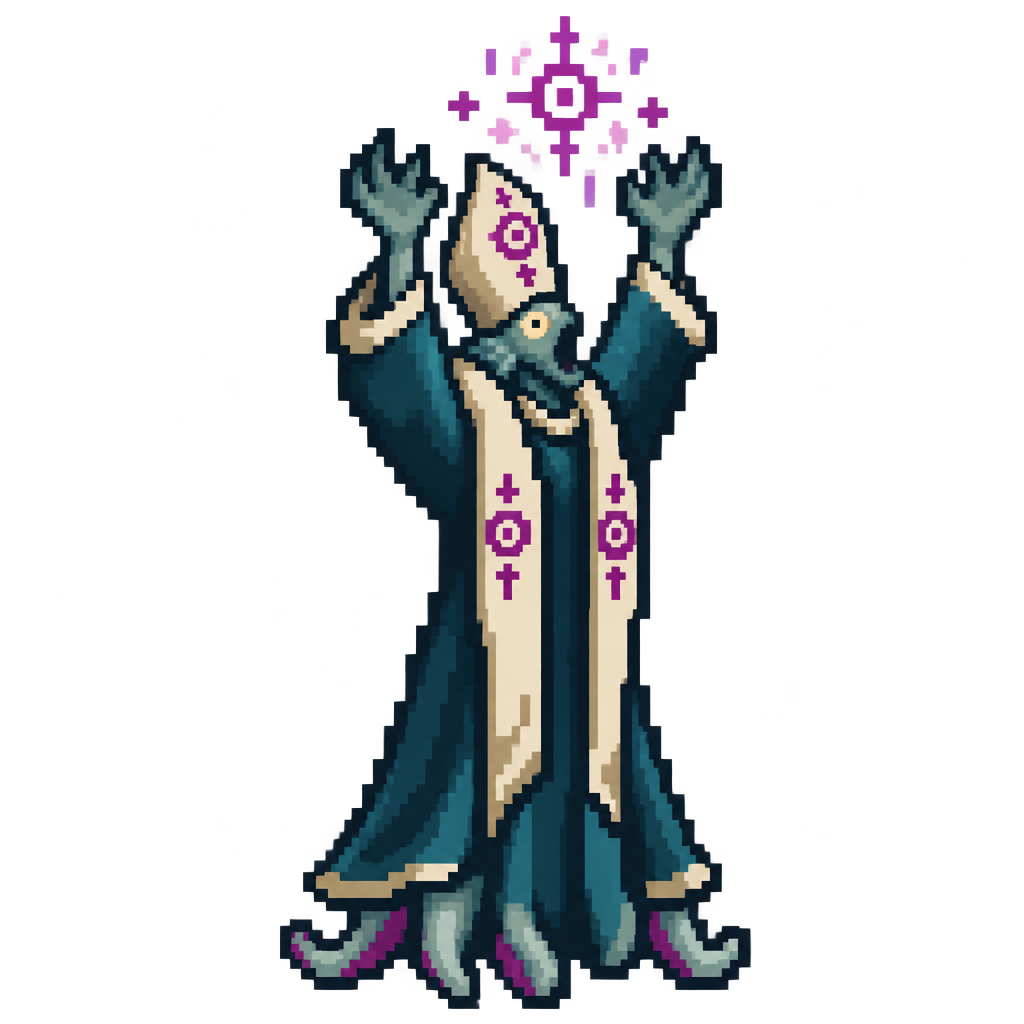
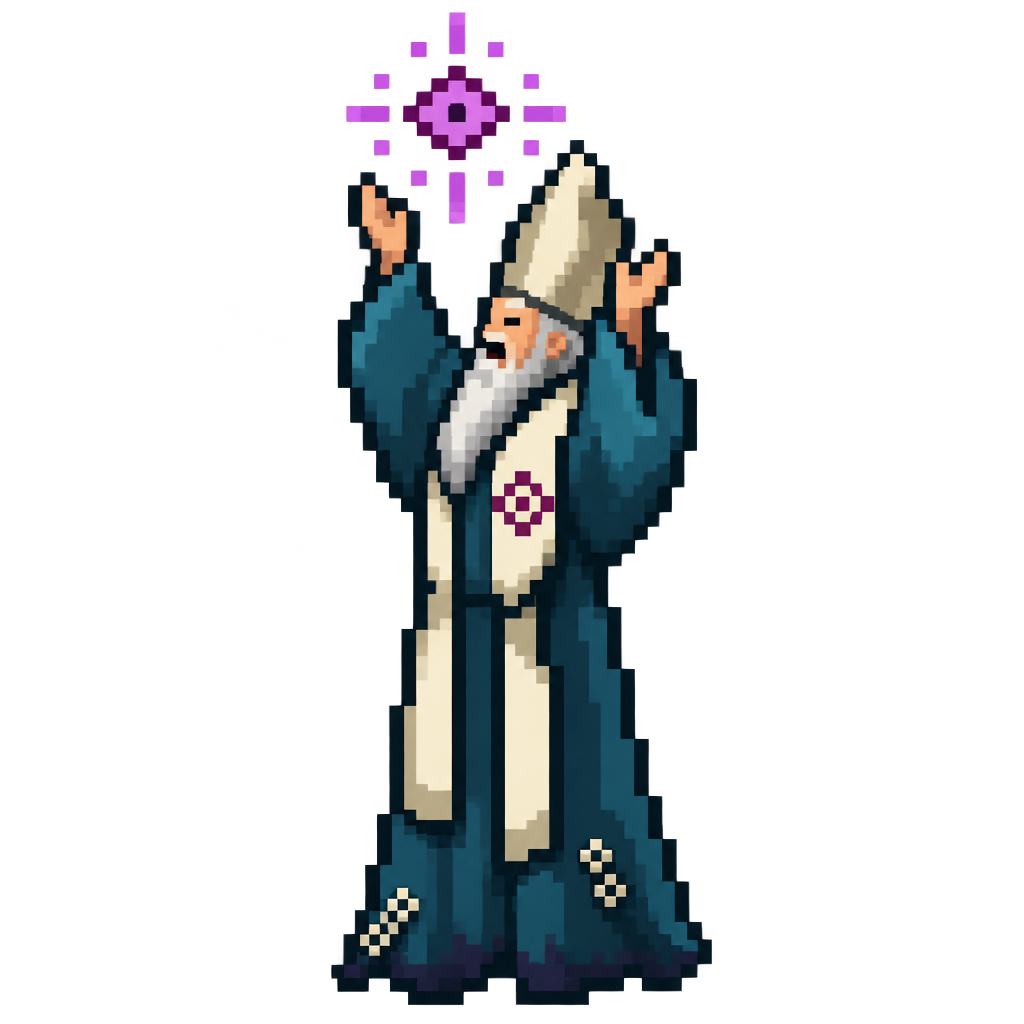
Act II art review: redo the 14 images the owner flagged
The owner reviewed all 207 new Act II and volley images (190 OK, 13 Redo, one note):
- Abbot Merrow (still and sermon pose) is an ordinary elderly human priest before The Change.
- Herald of the Deep: same design, fewer and bigger details.
- Harbourmaster: Deep Kin fish face, everything else kept.
- Bell buoy: the bell hangs free in an open frame.
- Chapel floor: hardwood planks instead of flagstones (new wood source, plank courses).
- Lobster pots and net piles: drawn pixel by pixel by the new tools/mesh_props.py.
- Siren of the Eye and Gilded Tide Widow: the bust bounce moved from the waist to the chest
  (Siren rig box raised; SKIN_FIX for the Hyper skin).
Visual only. GDD 15.0 row "Act II art review", ART_BIBLE rows, README and CLAUDE.md updated.

Claude-Session: https://claude.ai/code/session_01FLPv2RqRe5qVsRWxUhur7z

Changed region(s): [[0.25, 0.0, 0.75, 1.0]]

diff --git a/tools/mesh_props.py b/tools/mesh_props.py
@@ -1,0 +1,195 @@
+#!/usr/bin/env python3
+"""mesh_props.py: draws Gullhaven's see-through harbour props straight onto the art grid.
+
+Why (owner's art review, Oct 2026): the lobster pots and net piles are 20-29 art px tall, so an
+AI source's rope mesh (holes a few source px wide) averages into speckle when it is reduced to the
+grid, and the props read as "a pile of chests" / "a pile of sand". A cage or a net only reads when
+every rope line and every hole is a whole art pixel, so these four sprites are drawn here, pixel by
+pixel, from palette colours (tools/palette.json), at the same sizes as before (width = footprint
++ 2, HarbourStage obstacle radii 12 / 15 and 14 / 18).
+
+Usage (from the repo root):
+    python3 tools/mesh_props.py            # writes the four sprites below
+    python3 tools/mesh_props.py --out DIR  # writes them to DIR instead (review)
+
+Outputs: assets/sprites/obstacles/lobster_pots_s.png, lobster_pots_l.png, net_pile_s.png,
+net_pile_l.png. Drawing is deterministic (no randomness), so a rerun reproduces the files.
+"""
+import argparse
+import json
+import math
+from pathlib import Path
+
+from PIL import Image
+
+# Repository root (this file lives in tools/).
+ROOT = Path(__file__).resolve().parent.parent
+# Where the sprites are written by default.
+OUT_DIR = ROOT / "assets" / "sprites" / "obstacles"
+
+# Palette colours used, by palette.json name (the only colours these sprites may hold).
+COLOR_NAMES = ["ink_warm", "brown", "brown_light", "bone_shade", "bone_mid", "bone",
+               "drowned_dark", "drowned", "drowned_light"]
+
+# Sprite key -> (width, height) in art px, the sizes of the sprites they replace.
+SIZES = {
+    "lobster_pots_s": (26, 20),
+    "lobster_pots_l": (32, 25),
+    "net_pile_s": (30, 23),
+    "net_pile_l": (38, 29),
+}
+
+# Lobster pot: spacing of the rope mesh lines (art px; 3 = 2 px holes between 1 px ropes).
+POT_MESH = 3
+# Lobster pot: every this-many mesh columns is a wooden hoop instead of rope.
+POT_HOOP_EVERY = 2
+# Lobster pot: height of the flat wooden base board (art px).
+POT_BASE = 2
+# Net pile: spacing of the diamond mesh diagonals (art px; 6 = 5 px diamond holes, the smallest
+# that still reads as a net, not a dither, at 23-29 px; 4 and 5 were tried in review).
+NET_MESH = 6
+# Net pile: number of folds (darker bands) across the heap.
+NET_FOLDS = 2
+# Net pile: cork float diameter (art px).
+CORK = 3
+
+
+def palette() -> dict:
+    """Name -> (r, g, b, 255) for COLOR_NAMES, read from tools/palette.json."""
+    data = json.loads((ROOT / "tools" / "palette.json").read_text())
+    hexes = {c["name"]: c["hex"] for c in data["colors"]}
+    return {n: tuple(int(hexes[n][i:i + 2], 16) for i in (1, 3, 5)) + (255,) for n in COLOR_NAMES}
+
+
+def outline(img: Image.Image, ink: tuple) -> None:
+    """Paints every transparent pixel that touches an opaque one (4-neighbour) with `ink`."""
+    w, h = img.size
+    px = img.load()
+    edge = []
+    for y in range(h):
+        for x in range(w):
+            if px[x, y][3]:
+                continue
+            for dx, dy in ((1, 0), (-1, 0), (0, 1), (0, -1)):
+                nx, ny = x + dx, y + dy
+                if 0 <= nx < w and 0 <= ny < h and px[nx, ny][3] and px[nx, ny] != ink:
+                    edge.append((x, y))
+                    break
+    for x, y in edge:
+        px[x, y] = ink
+
+
+def draw_pot(img: Image.Image, x0: int, y0: int, w: int, h: int, pal: dict) -> None:
+    """One lobster trap (a loaf-shaped cage on a base board) with its box at (x0, y0), w x h px
+    INSIDE the outline: dark see-through inside, a rope grid, every other column a wooden hoop,
+    lit from the top-left (lit ropes bone, shaded ropes bone_shade)."""
+    px = img.load()
+    body = h - POT_BASE  # Rows of the cage above the base board.
+    r = max(2, body // 2)  # Corner radius of the loaf's rounded top (art px).
+    for yy in range(h):
+        for xx in range(w):
+            if yy < body:
+                # Rounded top corners: outside the corner circles is empty.
+                cx = r if xx < r else (w - 1 - r if xx > w - 1 - r else xx)
+                if yy < r and math.hypot(xx - cx, yy - r) > r + 0.25:
+                    continue
+                lit = xx + yy < (w + body) * 0.45  # Top-left half of the cage catches the light.
+                col_line = (xx % POT_MESH) == 1  # A vertical rope / hoop column.
+                row_line = (yy % POT_MESH) == 1 or yy == 0  # A horizontal rope row (top rope included).
+                hoop = col_line and (xx // POT_MESH) % POT_HOOP_EVERY == 0
+                if hoop:
+                    c = pal["brown_light"] if lit else pal["brown"]
+                elif col_line or row_line:
+                    c = pal["bone"] if lit else pal["bone_shade"]
+                else:
+                    c = pal["ink_warm"] if yy > 1 else pal["brown"]  # The dark inside, seen through the holes.
+                if xx in (0, w - 1) and not row_line:
+                    c = pal["brown"]  # The end hoops frame the cage.
+            else:
+                c = pal["brown_light"] if yy == body else pal["brown"]  # Base board, lit top edge.
+            px[x0 + xx, y0 + yy] = c
+
+
+def lobster_pots(size: tuple, pal: dict) -> Image.Image:
+    """A stack of three traps: two side by side on the ground, one on top, centred."""
+    w, h = size
+    img = Image.new("RGBA", size, (0, 0, 0, 0))
+    pw = (w - 3) // 2  # Width of a bottom trap inside its outline (1 px outline each side, 1 px shared gap).
+    ph = (h - 3) // 2 + 1  # Height of a trap inside its outline.
+    top_w = pw - 2  # The top trap is a little smaller (further away, sits in the groove).
+    yb = h - 1 - ph  # Top row of the bottom traps.
+    draw_pot(img, 1, yb, pw, ph, pal)
+    draw_pot(img, w - 1 - pw, yb, pw, ph, pal)
+    draw_pot(img, (w - top_w) // 2, max(1, yb - ph + 2), top_w, ph - 1, pal)
+    # A pale rope coil on the top trap's roof (2 px, lit).
+    cx = w // 2
+    img.load()[cx - 1, max(0, yb - ph + 2)] = pal["bone"]
+    img.load()[cx, max(0, yb - ph + 2)] = pal["bone_mid"]
+    outline(img, pal["ink_warm"])
+    return img
+
+
+def net_pile(size: tuple, pal: dict) -> Image.Image:
+    """A heap of fishing net: a mound filled with a diamond rope mesh (dark holes), scalloped
+    hanging loops along its foot, darker fold bands, a string of cork floats and one glass float."""
+    w, h = size
+    img = Image.new("RGBA", size, (0, 0, 0, 0))
+    px = img.load()
+    cx = (w - 1) / 2.0  # Mound centre column.
+    rx, ry = (w - 2) / 2.0, h - 2.5  # Mound half-width and height (inside the outline).
+    base = h - 2  # Bottom row of the mound.
+    for y in range(1, h - 1):
+        for x in range(1, w - 1):
+            dx = (x - cx) / rx
+            dy = (base - y) / ry
+            if dx * dx + dy * dy > 1.0:
+                continue
+            # Scalloped foot: the hanging loops leave a notch every NET_MESH columns.
+            if y == base and x % NET_MESH == 0:
+                continue
+            on_line = (x + y) % NET_MESH == 0 or (x - y) % NET_MESH == 0  # A rope of the diamond mesh.
+            lit = (x - cx) + (base - y) * 0.6 < rx * 0.35 and y < base - ry * 0.25  # Top-left of the heap.
+            # Fold bands: darker ropes along a few arcs across the heap.
+            fold = any(abs((y - base + ry * (k + 1) / (NET_FOLDS + 1)) + 0.12 * (x - cx) * (1 if k % 2 else -1)) < 0.8
+                       for k in range(NET_FOLDS))
+            if on_line:
+                c = pal["bone_shade"] if fold else (pal["bone"] if lit else pal["bone_mid"])
+            else:
+                # The lower folds seen through the holes: lit on the heap's top-left, dark elsewhere.
+                c = pal["brown"] if (lit and not fold) else pal["ink_warm"]
+            px[x, y] = c
+    # Cork floats strung along one rope across the heap (brown_light with a brown shade).
+    for i in range(3):
+        fx = int(cx - rx * 0.55 + i * rx * 0.45)
+        fy = int(base - ry * (0.55 - 0.12 * i))
+        for yy in range(CORK):
+            for xx in range(CORK):
+                if 0 <= fx + xx < w and 0 <= fy + yy < h and px[fx + xx, fy + yy][3]:
+                    px[fx + xx, fy + yy] = pal["brown_light"] if xx + yy < CORK else pal["brown"]
+    # One glass float, drowned teal with a lit glint, low on the right.
+    gx, gy = int(cx + rx * 0.45), int(base - ry * 0.35)
+    for yy in range(CORK + 1):
+        for xx in range(CORK + 1):
+            if (xx, yy) in ((0, 0), (CORK, 0), (0, CORK), (CORK, CORK)):
+                continue
+            if 0 <= gx + xx < w and 0 <= gy + yy < h and px[gx + xx, gy + yy][3]:
+                px[gx + xx, gy + yy] = pal["drowned"] if xx + yy > 1 else pal["drowned_light"]
+    outline(img, pal["ink_warm"])
+    return img
+
+
+def main() -> None:
+    ap = argparse.ArgumentParser(description=__doc__, formatter_class=argparse.RawDescriptionHelpFormatter)
+    ap.add_argument("--out", default="", help="output folder (default assets/sprites/obstacles)")
+    args = ap.parse_args()
+    out = Path(args.out) if args.out else OUT_DIR
+    out.mkdir(parents=True, exist_ok=True)
+    pal = palette()
+    for key, size in SIZES.items():
+        img = lobster_pots(size, pal) if key.startswith("lobster") else net_pile(size, pal)
+        img.save(out / (key + ".png"), optimize=True)
+        print(f"obstacles/{key}: {size[0]}x{size[1]} -> {out / (key + '.png')}")
+
+
+if __name__ == "__main__":
+    main()

diff --git a/tools/make_tile.py b/tools/make_tile.py
@@ -278,10 +278,17 @@ RECIPES = {
         "cell_shift": True, "cell_l": 0.012, "bevel": 0.01,
     },
     "harbour_chapel": {
-        "source": "sanctum_sanctuary.png", "method": "layout",  # Slimed flagstones of the chapel square.
-        "layout": {"type": "grid", "step": 32, "joint": 1, "stagger": 16},
-        "regions": {"stone": ["floor_slate", "floor_moss"], "joint": ["ink_green"]},
-        "cell_shift": True, "cell_l": 0.01, "bevel": 0.008,
+        # The village chapel's old hardwood floor (owner's art review: "a village chapel would have a
+        # hardwood floor"; it replaced slimed flagstones): long, narrow 8 px planks in staggered
+        # courses over a wood-grain source (16 px courses read as bricks), warmer than the
+        # Archive's dark 16 px boards.
+        "source": "harbour_chapel_wood.png", "method": "layout",
+        "layout": {"type": "courses", "rows": [8] * 16, "joint": 1,
+                   "slabs": [[80, 48], [128], [56, 72], [96, 32], [128], [48, 80], [72, 56], [128],
+                             [40, 88], [104, 24], [64, 64], [128], [88, 40], [32, 96], [128], [112, 16]],
+                   "offsets": [0, 52, 20, 84, 36, 8, 100, 68, 44, 12, 76, 28, 116, 60, 92, 4]},
+        "regions": {"stone": ["floor_dirt", "floor_ochre"], "joint": ["ink_warm"]},
+        "cell_shift": True, "cell_l": 0.012, "bevel": 0.006,
     },
     "harbour_seawall": {
         "source": "sanctum_courtyard.png", "method": "layout",  # The promenade's long dressed paving stones.

diff --git a/tools/walk_cycle.py b/tools/walk_cycle.py
@@ -199,7 +199,7 @@ RIGS = {
     # --- Act II: Ul-Thalos ---
     # The Siren floats (a kelp hem, robe); the Tide Widow's gown is a robe with her staff rigid;
     # the Spawns crawl (their tentacle skirts sway like a hem).
-    "eye/eye_siren": dict(mode="robe", hip=32, rigid=[], sway=2, dip=1, bust=(17, 27, 17, 25, 2)),
+    "eye/eye_siren": dict(mode="robe", hip=32, rigid=[], sway=2, dip=1, bust=(23, 32, 11, 19, 2)),  # Bust box raised after the owner's art review (was rows 17-25, too low).
     "eye/eye_hierophant": dict(mode="robe", hip=46, rigid=[(26, 38, 0, None)], sway=2, dip=1),
     "eye/eye_spawn": dict(mode="robe", hip=50, rigid=[], sway=2, dip=1),
     "eye/eye_waking_horror": dict(mode="legs", hip=52, back=(0, 33), front=(33, 62), rigid=[], spread=2, lift=2, dip=1),
@@ -232,7 +232,11 @@ SKINS = {
     "player/tide_widow_hyper": "player/tide_widow",  # --- Act II: Ul-Thalos ---
 }
 # Per-skin field overrides of the derived rig (same keys as RIGS), set after review.
-SKIN_FIX = {}
+SKIN_FIX = {
+    # The Hyper gown's crown adds 2 rows on top but her bust sits no lower than the base
+    # Tide Widow's, so the derived box (rows 20-28) landed on the waist (owner's art review).
+    "player/tide_widow_hyper": {"bust": (19, 30, 17, 25, 2)},
+}
 
 
 def load(key: str) -> np.ndarray:

diff --git a/docs/art/ART_BIBLE.md b/docs/art/ART_BIBLE.md
@@ -1226,22 +1226,22 @@ kept outside the repository; the sources are in `art_source/`.
 | `eye/deep_kin.png` (+ `_walk`) | Deep Kin: a hunched, scaled fisherman halfway into the sea, a spiny fin ridge, one magenta eye, ragged oilskin trousers | 56 | walk rig: legs, the long arms rigid |
 | `eye/tide_caller.png` (+ `_walk`, `_idle`) | Tide Caller: a fishwife priestess in the figure-redesign style (fitted drowned-teal oilskin gown, kelp shawl, bone cowl), a conch-topped staff | 54 | `pixelate_source.py` then `--ink-l 0.15 --no-cleanup`; glide strip and idle breathing with a 2 px bust bounce |
 | `eye/netcaster.png` (+ `_walk`) | Netcaster: a hooded net-mender, a weighted net over one arm, a gaff hook | 50 | walk rig: legs, the gaff rigid |
-| `eye/deep_herald.png` | Herald of the Deep (the Harbour's Reckoning kind): coral-horned, barnacle-plated sea horror | 64 | still only |
-| `eye/harbourmaster.png` | the Harbourmaster miniboss: a hulking Deep Kin in a peaked cap and torn oilskin, a giant anchor on a chain | 124 | still only (136 wide) |
-| `bosses/merrow.png` | Abbot Silas Merrow, robed: drowned-teal cassock, bone stole with the Eye, tall mitre, tentacles under the hem | 130 | |
-| `bosses/merrow_sermon.png` | pose 1: preaching, both arms raised, the Eye sigil above | 150 | `BossPoseData` |
+| `eye/deep_herald.png` | Herald of the Deep (the Harbour's Reckoning kind): coral-horned, shell-plated sea horror, redrawn after the owner's review with fewer, bigger details (three horns, three eyes, three shell plates, broad kelp strips) | 64 | still only (54 wide) |
+| `eye/harbourmaster.png` | the Harbourmaster miniboss: a hulking Deep Kin in a peaked cap and torn oilskin, a giant anchor on a chain; after the owner's review a Deep Kin fish head (wide fish mouth, needle teeth, gills, one huge eye) | 124 | still only (132 wide) |
+| `bosses/merrow.png` | Abbot Silas Merrow before The Change: an ordinary elderly human priest (owner's review: "more human, so the change is horrific"): human face and hands, grey beard, drowned-teal cassock, bone stole with the Eye, tall mitre, only barnacles on the hem; pixelated first (`pixelate_source.py`), `--no-prune` keeps the small skin ramp | 130 | 56 wide |
+| `bosses/merrow_sermon.png` | pose 1: the same human Merrow preaching, both arms raised, the Eye sigil above | 150 | `BossPoseData`; made like the still |
 | `bosses/merrow_changed.png` | after The Change: a gaunt scaled horror, frill crown, four long spotted tentacle limbs | 136 | 160 wide |
 | `bosses/merrow_changed_strike.png` | pose 3 of the changed form: lunging, the limbs lashing forward | 120 | `BossPoseData` |
-| `structures/bell_buoy.png` | a bell buoy: a weathered float with the Eye painted on it, an iron cage and a bell | 64 | |
+| `structures/bell_buoy.png` | a bell buoy: a weathered float with the Eye painted on it, an open frame of four iron struts and a bell hanging free inside it (owner's review: room to swing) | 64 | |
 | `structures/smuggler_cache.png` | an iron-bound, padlocked crate with rope and bottles | 40 | |
 | `player/brine_widow.png` (+ `_walk`, `_idle`) | The Brine Widow (Undertow's character): figure-redesign style, a fitted violet mourning gown, an icy-blue veil under a shell crown, a hooked driftwood staff curling with water | 58 | `pixelate_source.py` then `--ink-l 0.15 --no-cleanup`; glide strip and idle with a 2 px bust bounce |
 | `tiles/harbour_mudflats.png` | wet sand ripples | 128 | `make_tile.py` quilt, new source; mean L 0.26 |
 | `tiles/harbour_market.png` | wet market cobbles | 128 | `make_tile.py` voronoi layout on the fortress source; mean L 0.27 |
-| `tiles/harbour_chapel.png` | slimed flagstones | 128 | grid layout on the sanctuary source; mean L 0.28 |
+| `tiles/harbour_chapel.png` | the village chapel's old hardwood floor (owner's review; was slimed flagstones) | 128 | 8 px plank courses on `harbour_chapel_wood.png`; mean L 0.26 |
 | `tiles/harbour_seawall.png` | the promenade's long paving stones | 128 | courses layout on the courtyard source; mean L 0.29 |
 | `obstacles/mooring_post_s/_l` | a roped mooring post | 22x39 / 28x50 | circle r 9 / 12 |
 | `obstacles/wreck_ribs_s/_l` | a wrecked boat's ribs and keel | 50x44 / 64x55 | r 24 / 30 |
-| `obstacles/net_pile_s/_l` | heaped nets with floats and rope | 30x31 / 40x40 | r 14 / 18 |
+| `obstacles/net_pile_s/_l` | a heap of net: a diamond rope mesh with see-through holes, a scalloped hem, cork floats and a glass float | 30x23 / 38x29 | r 14 / 18; drawn by `tools/mesh_props.py` (owner's review: AI mesh read as sand) |
 | `obstacles/fish_stall_s/_m/_l` | a round stall heaped with fish under a striped awning | 44x56 / 52x67 / 60x78 | r 20 / 24 / 28 |
 | `obstacles/barrel_stack_s/_l` | three fish barrels | 26x28 / 34x35 | r 12 / 15 |
 | `obstacles/crate_stack_s/_l` | fish crates | 32x29 / 38x35 | r 14 / 17 |
@@ -1250,7 +1250,7 @@ kept outside the repository; the sources are in `art_source/`.
 | `obstacles/tide_font_s/_l` | the cult's holy-water font | 44x46 / 52x55 | r 20 / 24 |
 | `obstacles/bollard_s/_l` | an iron bollard | 20x22 / 24x27 | r 8 / 10 |
 | `obstacles/anchor_monument_s/_l` | an anchor set in a stone base | 44x50 / 52x59 | r 20 / 24 |
-| `obstacles/lobster_pots_s/_l` | stacked lobster pots | 26x20 / 32x25 | r 12 / 15 |
+| `obstacles/lobster_pots_s/_l` | three stacked lobster traps: rope-grid cages on wooden hoops and base boards | 26x20 / 32x25 | r 12 / 15; drawn by `tools/mesh_props.py` (owner's review: AI cages read as chests) |
 | `icons/undertow.png` | a breaking wave (violet badge) | 32 | symbol at 26 px composited on the badge cut from `grim_ledger` |
 | `icons/maelstrom.png` | a whirlpool (gold evolution badge) | 32 | |
 | `icons/salt_of_the_deep.png` | salt crystals and a violet spark (violet badge) | 32 | |

diff --git a/docs/GDD.md b/docs/GDD.md
@@ -1603,6 +1603,7 @@ Decisions made since the source was written are recorded in 15.0; everything bel
 | — | Ul-Thalos balance and art (Act II phase 2) | Measured with `--mortal --meta=none` on the final data, eight army seeds (1337, 2–8) and four naive seeds (1337, 2–4). **Army:** 7 of 8 reach 0:00 and slay Vhal'Neth (min HP before 0:00 56 / 97 / 109 / 107 / 74 / 111 / 70 in the wins; she falls 51–153 s after arriving, five of seven within 1:45); seed 7 dies at 17:36: its bot opens with priests and passives, its army is 3 of 6 at 2:00 and never recovers. **Naive:** 4 of 4 die (11:27–17:36; an earlier pass: 3 of 4). The stage stays a step above the Sanctum: enemy HP and damage × 1.25 from 5:00 (Sanctum × 1.1), Soul Ash × 2.25. Nine balance passes from the first run (the army wiped in the boss fight, 2 / 45 alive, Vhal'Neth at 15k HP): the Spawns of the Deep's trickle −40% and their squeeze 4 → 2.5 (cooldown 7 → 9 s), contact 10 → 7; the gaze 3 → 1 per summon tick (it rests on the Bone Ring), slams on summons 14 → 9 and on the necromancer 18 → 12, the roar 20 → 10 with a 1.8 s telegraph and 165 px; Vhal'Neth 34,000 → 20,000 HP; the Hierophant channels 10 s after arriving (not 4: it climbs out at the shore) and breaks at 25% HP lost; the Siren 150 → 120 HP, songs every 15 s, only with 3+ undead near, at most 6 lured (a weak army could not kill the Sirens and they sang 300 times); a gentler opening (no Chanter in the first minute, the first Chanter squad at 1:15, the Breakwater's density near the Sanctum's) and a softer step into the Sunken Steps (2 Spawns, a 16 + 1 ring). **Art:** 44 API images (about $0.76 at the tool's estimate, logged in the main checkout's ledger): every new unit (the Siren and the Tide Widow in the figure-redesign style with bust glide / walk and idle breathing strips), Vhal'Neth's three faces, the four floors and the sea (`make_tile.py` recipes), 8 obstacle kinds in all their sizes (the vertical toppled arch keeps its code glyph), 7 badges, 3 effect strips (`AnimData`), the Gilded Tide Widow; the decals and the sinking's water band stay code-drawn; the stage-select vignette is composed from this art. |
 
 | — | Act II integration (phase 2) | The four parallel workstreams (Gullhaven Harbour, the Hollow Archive, Ul-Thalos with the Spawn of the Deep, the Fallen Seraph) merged on `integration`; their own rows above hold each design. Merge fixes: the Archive's ink slow goes through `TerrainSlow` (the one ground-slow path) so Brinewalker cuts it as designed; Call of the Drowned sits in `NecroSpellBook.ACT2_IDS` (its own report line) instead of the Act I "later spells" line, whose text stays unchanged; the Ancient Eye's Codex lists hold all three stages. Gate: same-seed summaries on stages 1–3 identical on every gameplay line (8 configurations; only catalog totals grew: recipes 28, Codex 15 / 14 / 41 / 6, skins 34). **Balance** (fresh save, `--mortal`, 8 seeds per stage and bot): the first batch had the army bot reach 0:00 in 23 of 24 runs but the naive bot die in 6/8 (Gullhaven), 8/8 (the Archive) and 7/8 (Ul-Thalos), its top killer everywhere the Initiate swarm and a losing army feeding Claims. Changes: Initiate damage 3.5 → 3.0 (the Recruit's), Claims at most 5 Thralls (8) within a Chanter's 90 px (120); the Archive's and Ul-Thalos's stage multipliers ×1.25 → ×1.2 from 7:00 (5:00); the Archivist's pages 6 → 4.5 to the necromancer and the Gibbering Mass's crush 10 → 8 (the two top killers of the builds that died to her). Final: army bot 8/8 / 8/8 / 8/8 reach 0:00 (min HP 100 / 68 / 106; bosses killed 8/8 / 8/8 / 8/8, 73–93 s median); naive bot, fresh save, dies 3/8 / 7/8 / 8/8, which is the wrong yardstick for an act opened only by slaying Seraphine; **naive bot with mid Ossuary upgrades** (`--meta=mid`, 6 seeds): Sanctum 0/6 deaths (min HP 87), Gullhaven 0/6 (70), the Archive 2/6, both after 19:20 (lowest 0), Ul-Thalos 0/6 (21; Vhal'Neth killed in 1/6): a climb, with the Archive's boss fight still the sharpest spike. The three stages are now **playable**; the owner's playtest decides the rest. |
+| — | Act II art review (owner, Oct 2026) | The owner reviewed all 207 new Act II and volley images on a review page (OK / Redo with notes): 190 OK, 13 Redo, one note. Redone: **Abbot Merrow** (still and sermon pose) is now an ordinary elderly human priest before The Change ("more human, so the change is horrific"), his changed form untouched; the **Herald of the Deep** keeps its design with fewer, bigger details ("our enemies are so small: make the details larger"); the **Harbourmaster** keeps everything but gets a Deep Kin fish face; the **bell buoy**'s bell hangs free in an open frame (room to swing); the **chapel** floor is hardwood planks (a village chapel's floor), not flagstones; the **lobster pots and net piles** are drawn pixel by pixel by `tools/mesh_props.py` (an AI mesh cannot survive the reduction to 20-29 px and read as chests / sand); the **bust bounce** of the Siren of the Eye and the Gilded Tide Widow sat on the waist and now sits on the chest (Siren rig box raised, `walk_cycle.py SKIN_FIX` for the Hyper skin, whose crown had pushed the derived box 2 rows down). Visual only; no gameplay change. |
 ### 15.1 Core Rules and Run Structure
 
 1. **Resolved (see 15.0).** **Run end after the boss / time cap.** Run length is "20–30 minutes," with bosses at 20:00, 24:00 and 22:00, and the

diff --git a/CLAUDE.md b/CLAUDE.md
@@ -499,7 +499,7 @@ tiny tweaks.
    sharp-pixel shader; fonts Jersey 10 (all UI text, descriptions included) + Jacquard 24 (titles, banners), sized
    by the `UiTheme.Tier` type tiers (GDD §15.0 "Type tiers"). Tools: `tools/gen_image.py` (API
    generation, cost ledger `docs/art/generation_ledger.csv`), `prepare_sprite.py`, `art_check.py`, `make_tile.py`,
-   `walk_cycle.py`, `ui_kit.py`, `skin_cap.py`, `pixelate_source.py`. Boss attack poses are in (`boss_pose_data.gd`). **Figure redesign** (owner
+   `walk_cycle.py`, `ui_kit.py`, `skin_cap.py`, `pixelate_source.py`, `mesh_props.py` (see-through harbour props drawn on the grid). Boss attack poses are in (`boss_pose_data.gd`). **Figure redesign** (owner
    request, GDD §15.0 "Figure redesign of the female characters"): the Wither Witch, the Soulbinder, their Hyper skins and
    Seraphine (all four sprites), the Banshee and the Keening Lady have exaggerated hourglass figures (fully clothed) and a procedural bust bounce in their walk
    / glide strips (`walk_cycle.py` rig key `bust`); Seraphine, her Avatar, the Banshee and the Keening Lady have glide

diff --git a/README.md b/README.md
@@ -1495,7 +1495,9 @@ drawn by the game on all 9 stage floors next to the necromancer, a Skeleton Warr
 Recruit at Normal (×1) and Close (×2) zoom through the game's sharp-pixel shader, a big zoom,
 greyscale and silhouette, and the rule checks (it runs
 its own Godot scene from `tools/art_check/` in a scratch copy of the project; `tools/` is ignored by
-Godot, so it never ships). `python3 tools/pixel_palette.py --preview <png>` draws the palette. The
+Godot, so it never ships). `python3 tools/pixel_palette.py --preview <png>` draws the palette.
+`python3 tools/mesh_props.py` draws Gullhaven's lobster pots and net piles pixel by pixel (a rope mesh
+does not survive the reduction of an AI source to 20-29 px). The
 31 sprites made before the pixel-art pass (the necromancer, the first summons and evolutions, the
 Stage 1-2 soldiers and the Reckoning's Inquisitor, Sir Alaric, Marshal Vael and the five March
 structures) are placeholders to be redone; the anchors (necromancer, Skeleton Warrior, Covenant
